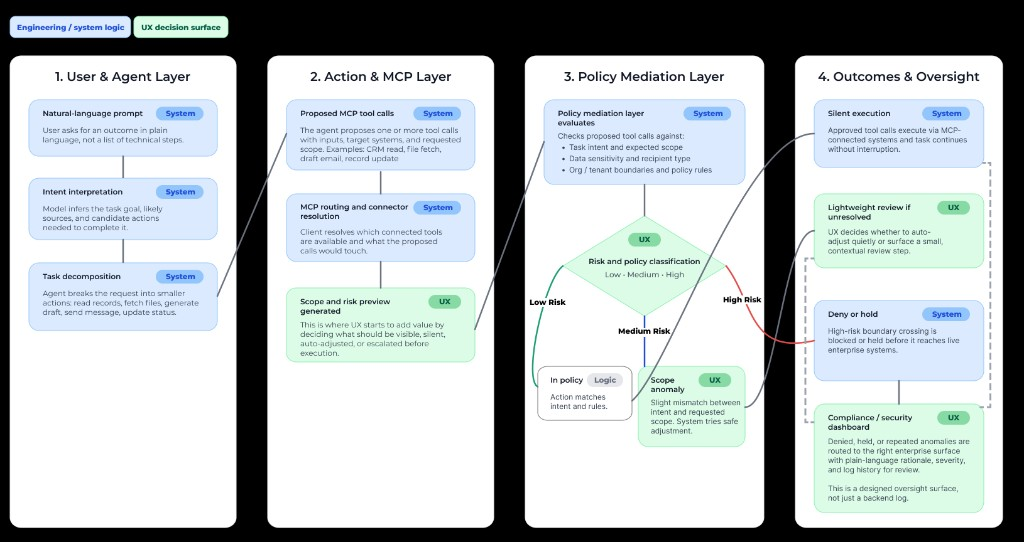
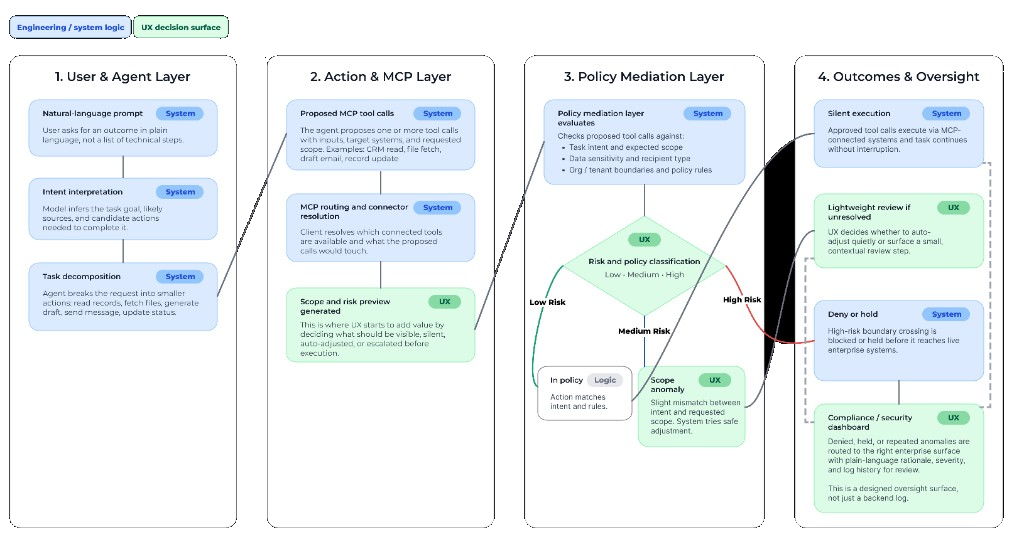
fix: policy flow diagram as transparent lossless PNG, correct dimensions
Made-with: Cursor

Changed region(s): [[0.0, 0.0, 1.0, 1.0], [0.8125, 0.7675, 0.8438, 0.797]]

diff --git a/app/uc/mcp/page.tsx b/app/uc/mcp/page.tsx
@@ -394,8 +394,8 @@ export default function MCPUseCasePage() {
                     src="/images/MCP/policy_mediated_mcp_execution_flow.png"
                     alt="Policy-mediated MCP execution flow from natural-language request through tool calls and policy review to outcomes."
                     className="min-w-[920px] w-full h-auto block"
-                    width={1630}
-                    height={864}
+                    width={1024}
+                    height={542}
                     decoding="async"
                     loading="lazy"
                   />
@@ -529,10 +529,10 @@ export default function MCPUseCasePage() {
                 is a designed human experience around it.
               </p>
               <p>
-                Human oversight is not a checkbox. An engineer can add an approval prompt. A compliance team can require a
-                log. But whether a person actually understands what they are approving, whether the signal reaches the right
-                person, and whether the friction is proportional to the risk are design problems. That is the layer this
-                project works in.
+                The infrastructure for oversight exists. The experience around it is still largely undesigned. Engineers
+                can add approval prompts. Compliance teams can require logs. These are real contributions, and they
+                matter. But getting the signal to the right person, at the right moment, with friction that reflects the
+                actual risk, those are design problems. That is the layer this project works in.
               </p>
               <p>
                 The more I mapped the gap, the more I recognized it as the same trust and control problem I have been
